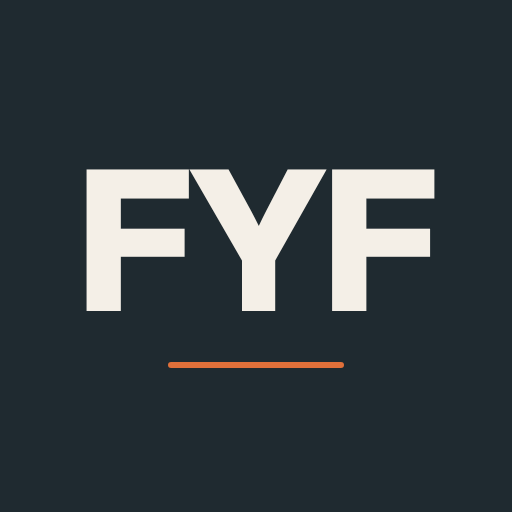
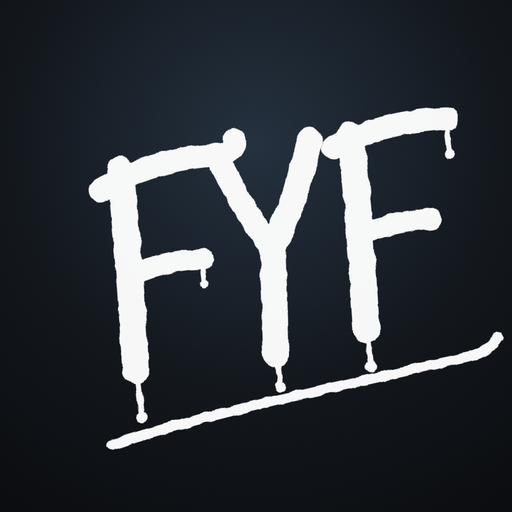
v.180 Neues App-Symbol: FYF als weißer Edding-Tag auf dunklem Grund; Pass-Manifest dunkel; Cache p111
Claude-Session: https://claude.ai/code/session_01RWZFmARoUs21ML5XFMu2d8

diff --git a/docs/app-icon-quelle.html b/docs/app-icon-quelle.html
@@ -1,0 +1,27 @@
+<!doctype html><html><body style="margin:0;background:#000">
+<svg id="ic" xmlns="http://www.w3.org/2000/svg" width="1024" height="1024" viewBox="0 0 1024 1024">
+<defs>
+ <radialGradient id="bg" cx="50%" cy="28%" r="85%"><stop offset="0" stop-color="#1f2c3a"/><stop offset=".55" stop-color="#0d1218"/><stop offset="1" stop-color="#05070a"/></radialGradient>
+ <filter id="rough" x="-10%" y="-10%" width="120%" height="120%"><feTurbulence type="fractalNoise" baseFrequency="0.035" numOctaves="2" seed="7" result="n"/><feDisplacementMap in="SourceGraphic" in2="n" scale="9" xChannelSelector="R" yChannelSelector="G"/></filter>
+ <filter id="grain"><feTurbulence type="fractalNoise" baseFrequency="0.9" numOctaves="2" seed="3"/><feColorMatrix values="0 0 0 0 1  0 0 0 0 1  0 0 0 0 1  0 0 0 .05 0"/></filter>
+ <filter id="glow"><feGaussianBlur stdDeviation="6" result="b"/><feMerge><feMergeNode in="b"/><feMergeNode in="SourceGraphic"/></feMerge></filter>
+</defs>
+<rect width="1024" height="1024" fill="url(#bg)"/>
+<rect width="1024" height="1024" filter="url(#grain)"/>
+<g id="tag" transform="translate(512 520) rotate(-9) translate(-512 -520)" filter="url(#rough)" stroke="#fff" fill="none" stroke-linecap="round" stroke-linejoin="round" opacity=".97">
+ <path d="M272 300 C 264 450 252 580 240 700" stroke-width="54"/>
+ <path d="M226 334 C 300 302 384 292 468 300 C 492 302 506 292 506 276" stroke-width="46"/>
+ <path d="M252 512 C 302 500 352 494 408 502" stroke-width="42"/>
+ <path d="M474 324 C 496 392 516 442 548 502" stroke-width="46"/>
+ <path d="M656 300 C 624 380 584 452 548 502 C 540 572 532 640 522 712" stroke-width="52"/>
+ <path d="M523 724 L 521 772" stroke-width="11"/><circle cx="521" cy="777" r="11" fill="#fff" stroke="none"/>
+ <path d="M738 304 C 731 450 719 580 708 692" stroke-width="54"/>
+ <path d="M700 322 C 772 298 852 290 934 300" stroke-width="46"/>
+ <path d="M724 502 C 772 492 820 488 872 494" stroke-width="42"/>
+ <path d="M168 840 C 380 806 640 796 900 778 C 934 776 954 764 966 748" stroke-width="20"/>
+ <path d="M241 712 L 238 790" stroke-width="12"/><circle cx="238" cy="796" r="12" fill="#fff" stroke="none"/>
+ <path d="M708 704 L 706 762" stroke-width="11"/><circle cx="706" cy="767" r="11" fill="#fff" stroke="none"/>
+ <path d="M930 306 L 928 368" stroke-width="10"/><circle cx="928" cy="373" r="10" fill="#fff" stroke="none"/>
+ <path d="M404 506 L 402 548" stroke-width="9"/><circle cx="402" cy="552" r="8" fill="#fff" stroke="none"/>
+</g>
+</svg></body></html>

diff --git a/sw.js b/sw.js
@@ -1,6 +1,6 @@
 // FYF Offline-Speicher. Immer zuerst das Netz (damit Updates sofort ankommen), ohne Netz die letzte gespeicherte Version.
 // Nur Dateien dieser Seite – Anfragen an Supabase und andere Server werden nie zwischengespeichert.
-const CACHE = 'fyf-app-v1-p110';
+const CACHE = 'fyf-app-v1-p111';
 const CORE = ['./', './index.html', './manifest.webmanifest', './rad.html', './pass.webmanifest', './finder.html', './pass-en.js', './pass-theme.css', './icon-192.png', './icon-512.png', './apple-touch-icon.png', './vendor/html2canvas-1.4.1.min.js', './vendor/quagga2.min.js', './fonts/figtree.woff', './fonts/archivo.woff', './fonts/plexmono-400.woff', './fonts/plexmono-500.woff', './vendor/qrcode-generator-1.4.4.js', './vendor/jsQR-1.4.0.js'];
 self.addEventListener('install', e => { e.waitUntil(caches.open(CACHE).then(c => c.addAll(CORE)).then(() => self.skipWaiting())); });
 self.addEventListener('activate', e => { e.waitUntil(caches.keys().then(ks => Promise.all(ks.filter(k => k !== CACHE).map(k => caches.delete(k)))).then(() => self.clients.claim())); });

diff --git a/index.html b/index.html
@@ -2064,7 +2064,7 @@ const KEY = 'fitframe-demo-v3';
 const STORE={kind:'lokal im Browser (localStorage)',read(){ return localStorage.getItem(KEY); },write(json){ localStorage.setItem(KEY,json); return localStorage.getItem(KEY); }};
 let S;
 let storageOk = true;
-const APP_VER='2026-11-22.179';
+const APP_VER='2026-11-22.180';
 let loadIssue = null;
 function load(){
   let raw=null;

diff --git a/FORTSCHRITT.md b/FORTSCHRITT.md
@@ -5,7 +5,7 @@ Bei jedem Lauf „Stand“ und „Nächster Schritt“ aktualisieren.
 
 ## Stand
 
-- Live (GitHub Pages aus Branch **`main`**): Händlersoftware `index.html` **v.179** (APP_VER 2026-11-22.179), Service-Worker-Cache `fyf-app-v1-p110`, Datenbank-Stand **29** (eingespielt 21.11.).
+- Live (GitHub Pages aus Branch **`main`**): Händlersoftware `index.html` **v.180** (APP_VER 2026-11-22.180), Service-Worker-Cache `fyf-app-v1-p111`, Datenbank-Stand **29** (eingespielt 21.11.).
 - Demo: https://8s7wnktjyv-blip.github.io/bikefitting/ · Pass: `rad.html` · Händlerfinder: `finder.html`
 - Browser-Tests: `sh tests/e2e/run.sh` (19 Tests, iPhone-13-Größe, gegen `mock.js`), laufen bei jedem Push als GitHub-Action „Tests“.
 - Weitere Branches: `plattform-neu` (Neubau, **nicht live**), `master-auftrag` (in `main` übernommen), `v59-cloud` (alt).
@@ -14,6 +14,7 @@ Bei jedem Lauf „Stand“ und „Nächster Schritt“ aktualisieren.
 ### Zuletzt erledigt
 | Version | Inhalt |
 |---|---|
+| v.180 (22.11.) | Neues App-Symbol (Wunsch Dominik): dunkler Nachtblau-Hintergrund, „FYF“ als weißer Edding-Tag mit Tropfen und Unterstrich-Schwung; alle Größen (512, 192, Apple 180, maskable); Pass-Manifest Hintergrund/Leiste dunkel. Gilt für Pass und Software (gemeinsame Symbol-Dateien). |
 | v.179 (22.11.) | Pass dunkel & modern (Entscheidung Dominik 22.11.: „dunkel als Standard, in Einstellungen änderbar, wie Strava“): neues `pass-theme.css` für Pass und Händlerfinder – Nachtblau-Verlauf, dunkle Karten mit feinem Rand, orange Hauptknöpfe, Glas-Leiste; Umschalter „Design: Dunkel · Hell · Automatisch“ unten in der Garage (gespeichert, Automatisch = iPhone-Einstellung); alle Pass-Seiten automatisch auf helle Reste/Kontrast geprüft. Test t179. |
 | v.178 (22.11.) | Händlerfinder: Laden-Karten mit farbigem Initial, ohne Unterstreichung, Pfeil, ganze Karte antippbar, Bewertung hervorgehoben. |
 | v.177 (22.11.) | Pass „Rad prüfen“: Scan als dunkle Hero-Karte mit orangem Knopf, darunter 4 Kacheln, was die Prüfung zeigt (Diebstahl, Werkstatt-Nachweise, Kilometer, Akku & Besitzer). |
